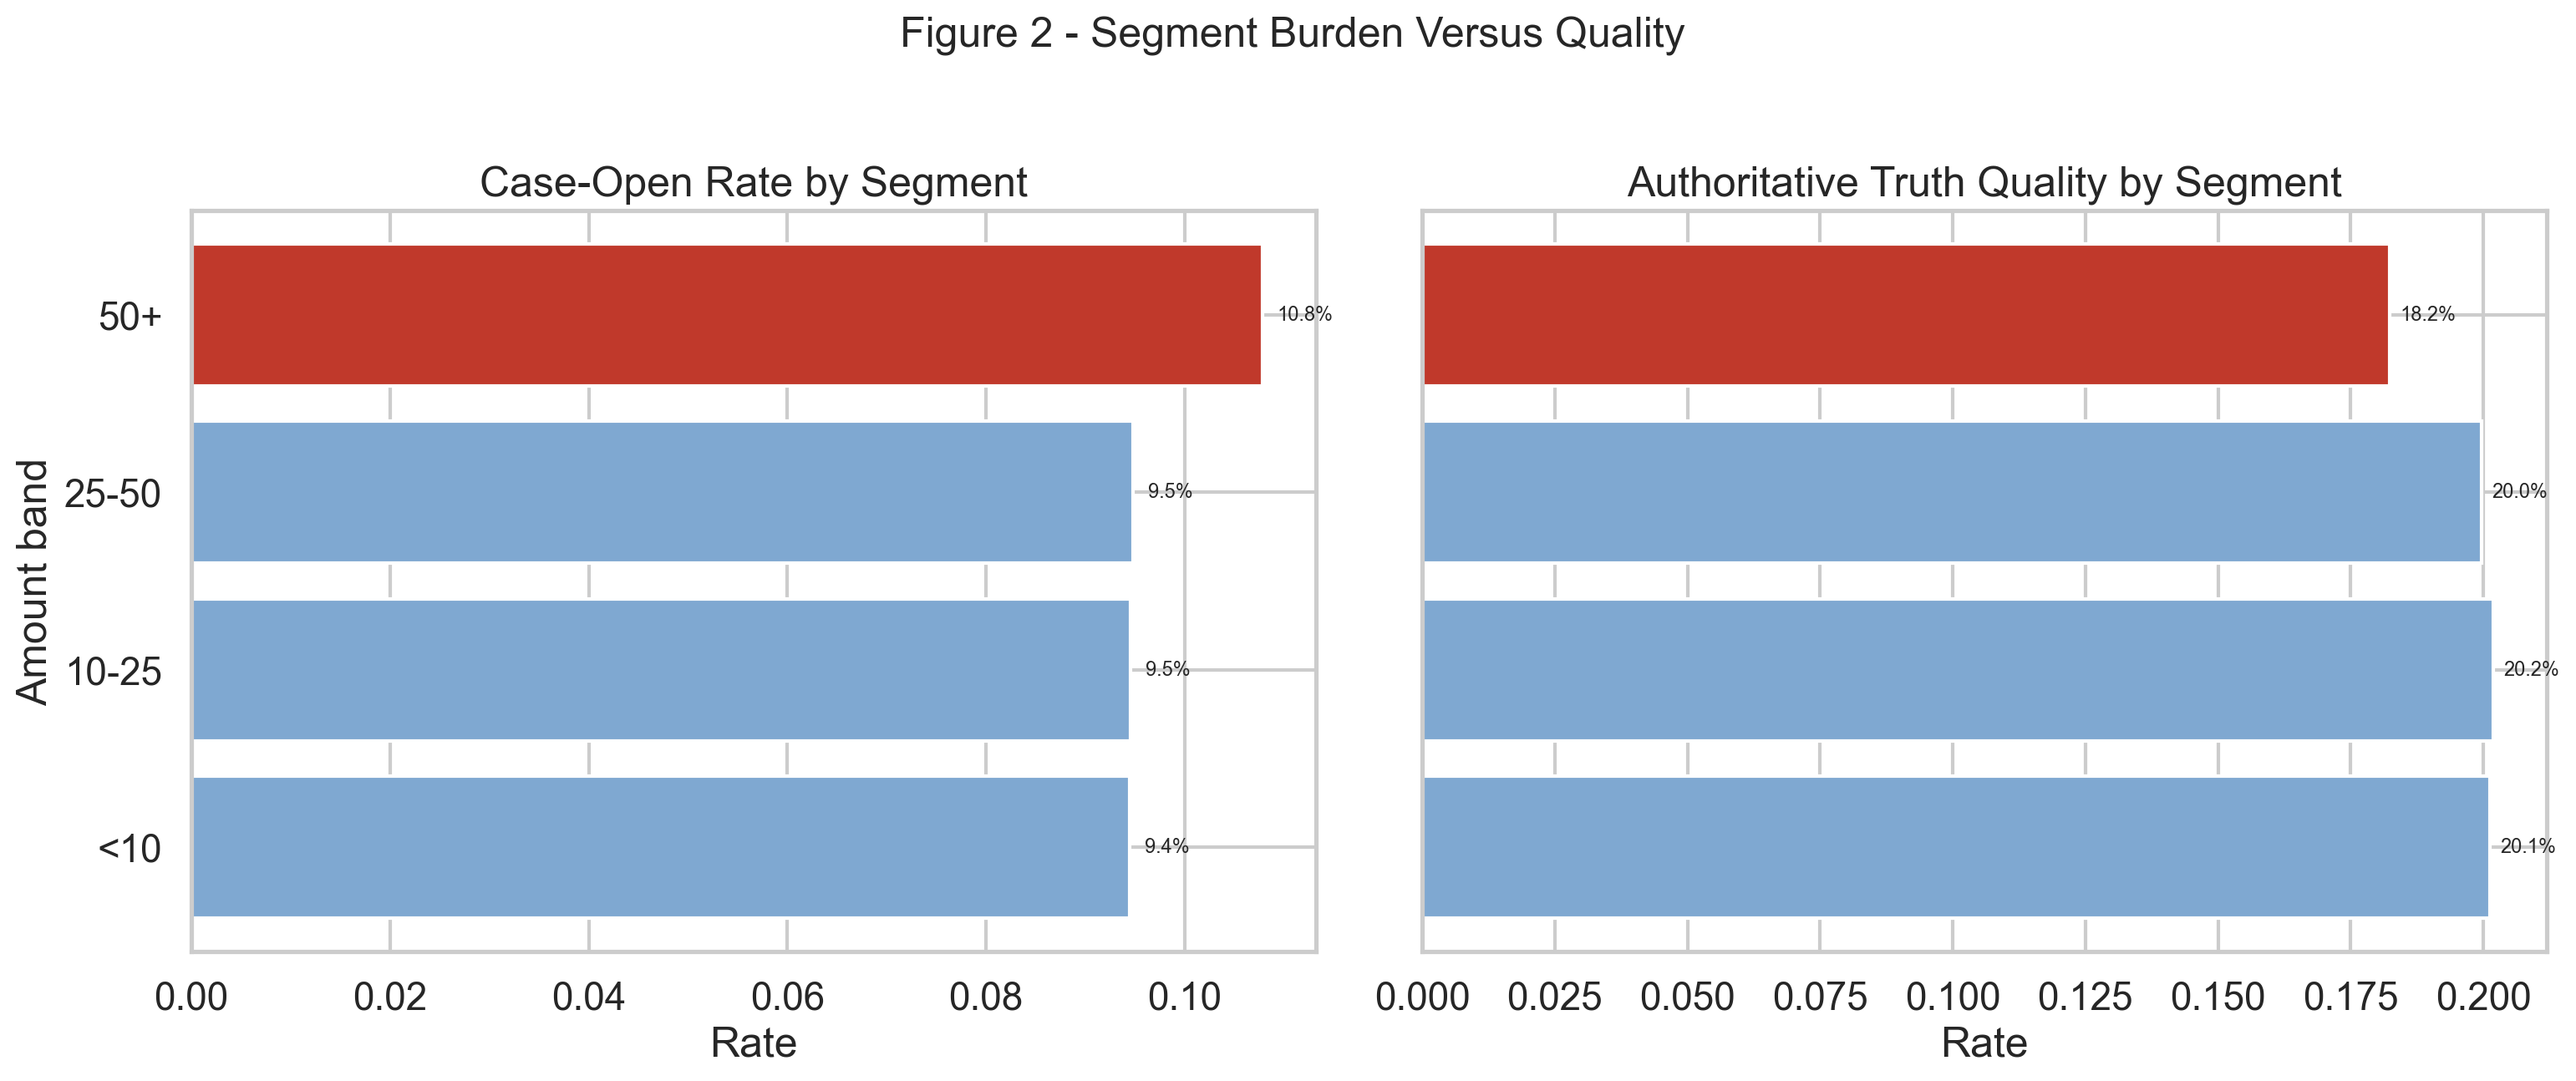
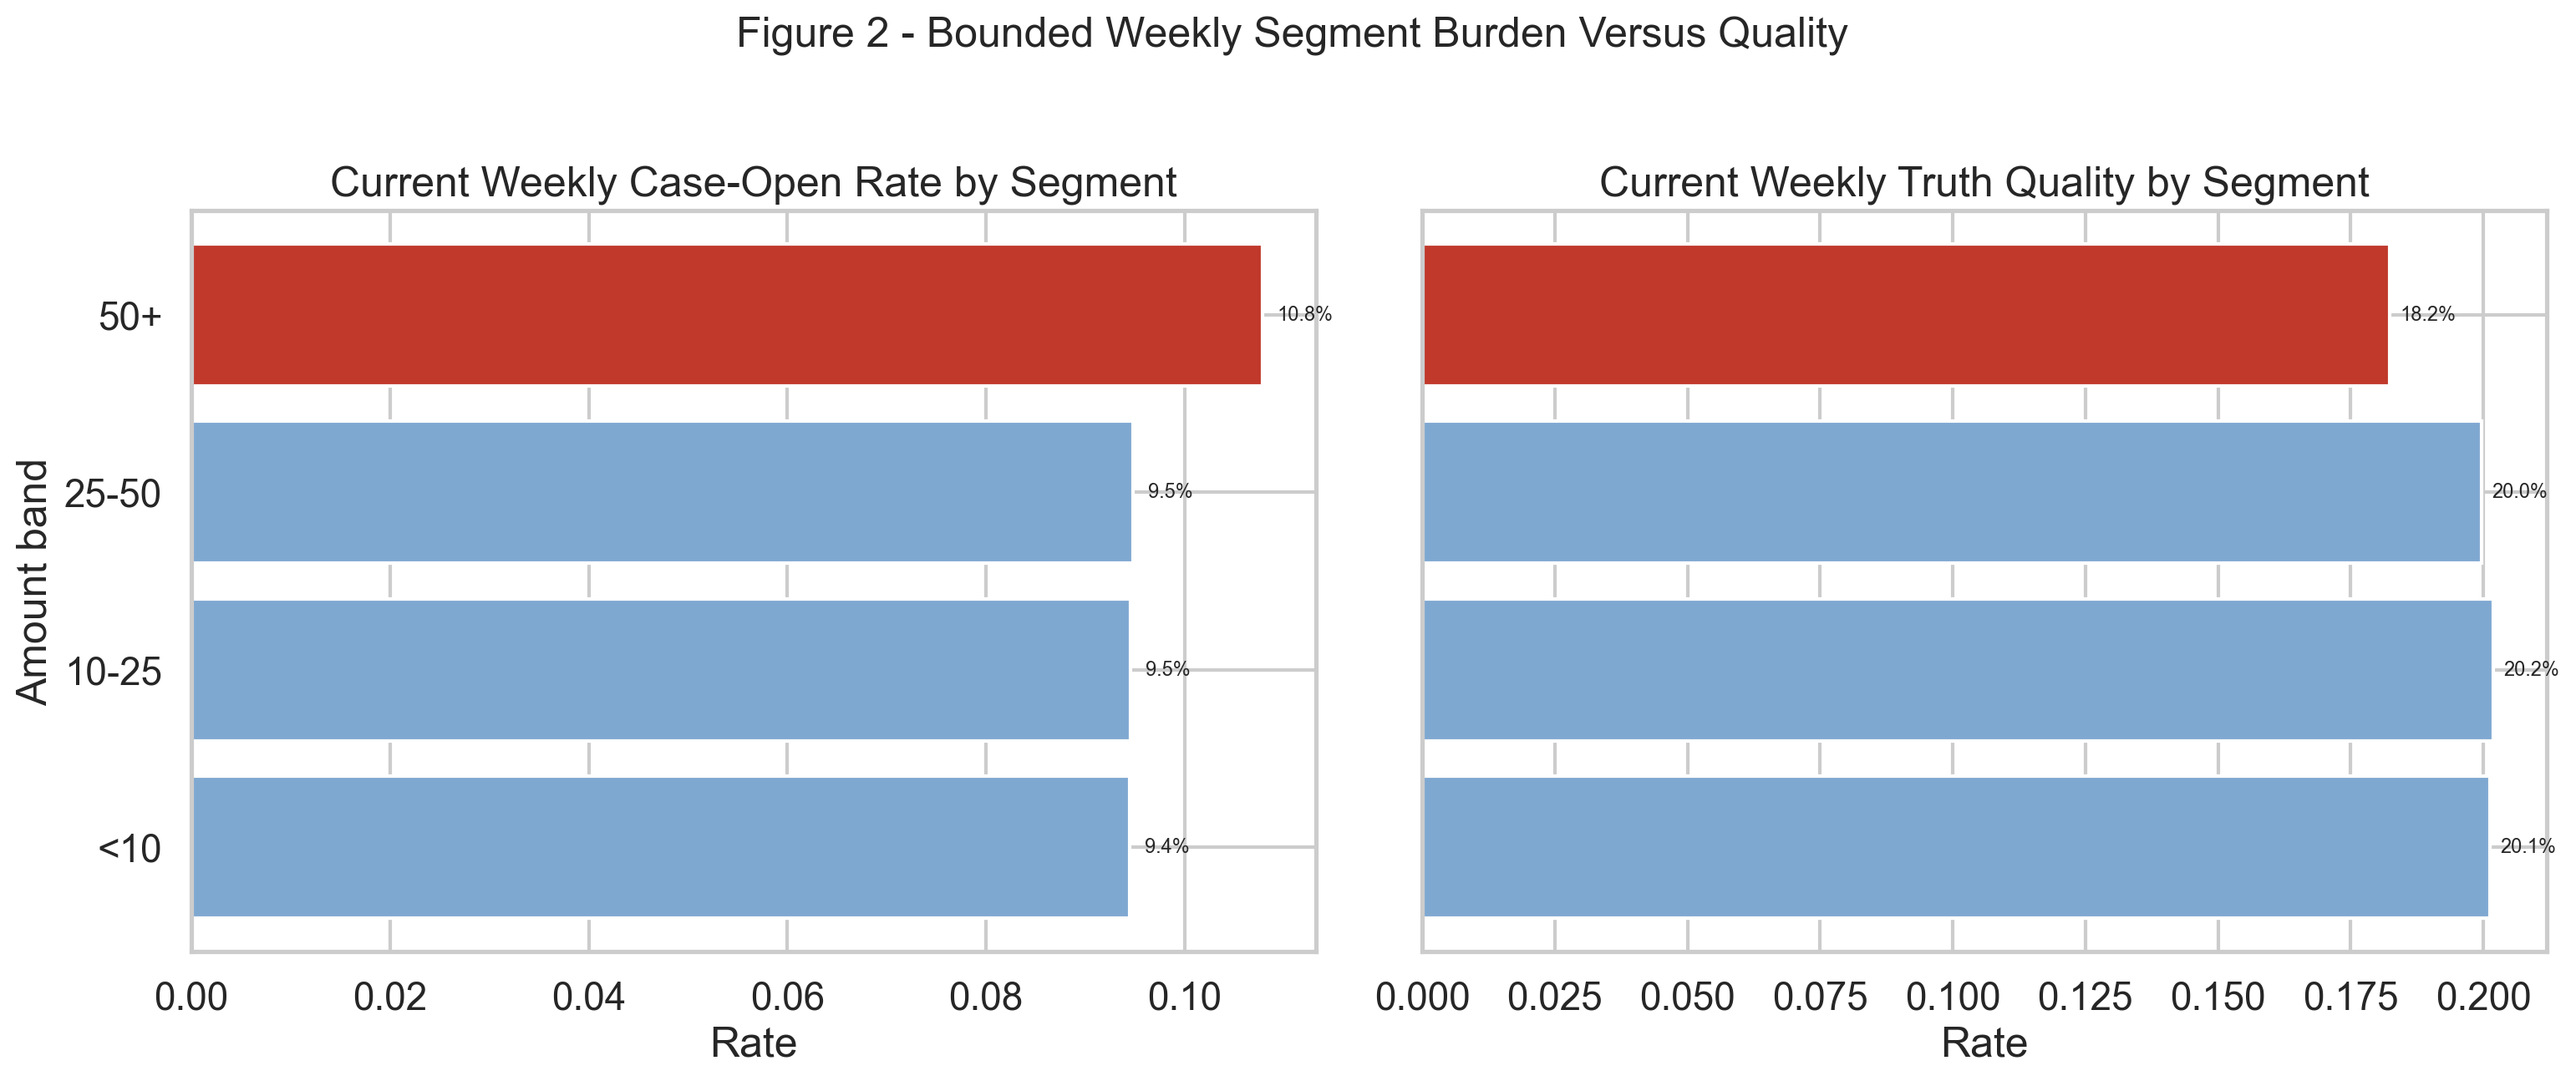
Enhance issue-to-action briefing artifacts with updated figures, refined execution report, and improved clarity in analysis and recommendations.

Changed region(s): [[0.2802, 0.0, 0.7162, 0.0618], [0.1246, 0.1546, 0.4671, 0.1855], [0.6228, 0.1546, 0.9342, 0.1855]]

diff --git a/artefacts/analytics_slices/data_analyst/huc/04_issue_to_action_briefing/models/build_issue_to_action_briefing.py b/artefacts/analytics_slices/data_analyst/huc/04_issue_to_action_briefing/models/build_issue_to_action_briefing.py
@@ -402,43 +402,31 @@ def main() -> None:
         )
 
     rate_df = plot_df.loc[plot_df["rate_metric"]].copy()
+    rate_df["delta_pp"] = (rate_df["current_value"] - rate_df["prior_value"]) * 100
     y_positions = list(range(len(rate_df)))
-    bar_height = 0.32
+    colors = ["#3d85c6" if value >= 0 else "#e69138" for value in rate_df["delta_pp"]]
     axes[1].barh(
-        [y - bar_height / 2 for y in y_positions],
-        rate_df["prior_value"],
-        height=bar_height,
-        color="#9fc5e8",
-        label="Prior",
-    )
-    axes[1].barh(
-        [y + bar_height / 2 for y in y_positions],
-        rate_df["current_value"],
-        height=bar_height,
-        color="#3d85c6",
-        label="Current",
+        y_positions,
+        rate_df["delta_pp"],
+        color=colors,
+        height=0.52,
     )
     axes[1].set_yticks(y_positions)
     axes[1].set_yticklabels(rate_df["metric"])
-    axes[1].set_xlim(0.08, 0.82)
-    axes[1].set_title("Core Rates Were Broadly Flat")
-    axes[1].set_xlabel("Rate")
+    max_delta = max(abs(rate_df["delta_pp"]).max(), 0.05)
+    axes[1].set_xlim(-max_delta * 1.8, max_delta * 1.8)
+    axes[1].axvline(0, color="#666666", linewidth=1.2)
+    axes[1].set_title("Rate Movement vs Prior Was Minimal")
+    axes[1].set_xlabel("Change from prior (percentage points)")
     axes[1].set_ylabel("")
-    axes[1].legend(title="", loc="lower right", fontsize=10)
     for pos, row in enumerate(rate_df.itertuples(index=False)):
         axes[1].text(
-            float(row.current_value) + 0.01,
-            pos + bar_height / 2,
-            short_pct(float(row.current_value)),
+            float(row.delta_pp) + (0.01 if row.delta_pp >= 0 else -0.01),
+            pos,
+            f"{row.delta_pp:+.2f} pp",
             fontsize=8.5,
             va="center",
-        )
-        axes[1].text(
-            float(row.prior_value) + 0.01,
-            pos - bar_height / 2,
-            short_pct(float(row.prior_value)),
-            fontsize=8.5,
-            va="center",
+            ha="left" if row.delta_pp >= 0 else "right",
         )
 
     fig.suptitle("Figure 1 - Topline Movement and Issue Context", fontsize=18, y=1.02)
@@ -493,7 +481,9 @@ def main() -> None:
             fontsize=8.5,
         )
 
-    fig.suptitle("Figure 2 - Segment Burden Versus Quality", fontsize=18, y=1.02)
+    axes[0].set_title("Current Weekly Case-Open Rate by Segment")
+    axes[1].set_title("Current Weekly Truth Quality by Segment")
+    fig.suptitle("Figure 2 - Bounded Weekly Segment Burden Versus Quality", fontsize=18, y=1.02)
     fig.tight_layout()
     fig.savefig(FIGURES_DIR / "segment_burden_versus_quality.png", dpi=200, bbox_inches="tight")
     plt.close(fig)

diff --git a/docs/experience_lake/outward-facing-assets/analytics-role-lenses/data_analyst/huc/04_issue_to_action_briefing/execution_report.md b/docs/experience_lake/outward-facing-assets/analytics-role-lenses/data_analyst/huc/04_issue_to_action_briefing/execution_report.md
@@ -1,0 +1,276 @@
+# Execution Report - Issue-To-Action Briefing Slice
+
+As of `2026-04-03`
+
+Purpose:
+- record what was actually executed for the HUC `Data Analyst` stakeholder-communication and decision-support slice
+- preserve the truth boundary between one bounded issue-to-action briefing and any wider claim about a broader HUC communication, dashboard, or board-pack programme
+- package the saved facts, briefing notes, action notes, and complementary evidence figures into one outward-facing report
+
+Truth boundary:
+- this execution was completed against compact governed outputs already produced in the earlier HUC slices
+- the slice did not reload the full merged service-line base into memory
+- the scope was limited to one bounded weekly service-line issue only
+- the selected issue was not broad deterioration; it was a concentrated burden-versus-quality issue in one segment
+- the slice therefore supports a truthful claim about translating one real operational issue into plain-language action for operations and leadership
+- it does not support a claim that a broad HUC communications estate, full dashboard suite, or strategic reporting programme has already been industrialised
+
+---
+
+## 1. Executive Answer
+
+The slice asked:
+
+`can one real service-line issue be explained clearly enough that leadership and operations understand what changed, why it matters, and what should happen next?`
+
+The bounded answer is:
+- the current week is broadly stable at top line rather than materially deteriorating
+- pressure increased only slightly from `18.32M` to `18.55M` flows
+- case-open conversion stayed broadly flat at `9.62%` versus `9.59%`
+- long-lifecycle burden stayed broadly flat at `79.61%` versus `79.64%`
+- authoritative truth quality stayed broadly flat at `19.86%` versus `19.89%`
+- the real issue is concentrated in the `50_plus` segment rather than spread across the whole lane
+- that segment still has the highest case-open rate at `10.78%`
+- it also has the weakest authoritative truth quality at `18.23%`
+- the selected recommendation is therefore:
+  - review `50_plus` queue case-opening or escalation rules before broad lane-wide intervention
+- the compact issue briefing regenerates from governed inputs in `2.52` seconds
+
+That means this slice delivered a real analysis-to-action briefing rather than only a neutral KPI summary or a decorative reporting pack.
+
+## 2. Slice Summary
+
+The slice executed was:
+
+`one what-changed and what-to-do-next service-line performance briefing for a single operational issue`
+
+This was chosen because it allowed a direct response to the HUC requirement:
+- communicate analytical findings in plain language
+- tailor that communication to different audiences
+- explain why the issue matters operationally
+- connect the issue to a real follow-up recommendation rather than passive observation
+
+The primary proof object was:
+- `issue_to_action_briefing_v1`
+
+The main delivered outputs were:
+- one decision-question note
+- one process map
+- one KPI-purpose note
+- one stakeholder-view matrix
+- one `what changed` note
+- one `why it matters` note
+- one KPI definition sheet
+- one compact two-figure briefing pack
+- one executive brief
+- one operational action note
+- one challenge-response note
+
+## 3. How This Maps To The Slice Plan
+
+The execution stayed aligned to the approved HUC `3E + 3F` slice rather than drifting into a broader dashboard, reporting-ownership, or generic storytelling exercise.
+
+The delivered scope maps back to the planned lens responsibilities as follows:
+- `05 - Business Analysis, Change, and Decision Support`: decision-question note, process map, KPI-purpose note, and stakeholder-view matrix
+- `01 - Operational Performance Analytics`: bounded KPI comparison, issue selection, `what changed` note, and `why it matters` note
+- `02 - BI, Insight, and Reporting Analytics`: one compact two-figure issue briefing pack and one KPI definition sheet
+- `08 - Stakeholder Translation, Communication, and Decision Influence`: executive brief, operational action note, and challenge-response note
+
+The report therefore needs to be read as proof that one bounded issue was interpreted and translated into action, not as proof that every HUC audience or strategic forum is already covered.
+
+## 4. Execution Posture
+
+The execution followed the agreed `05 -> 01 -> 02 -> 08` order.
+
+The working discipline was:
+- define the decision need first
+- choose the issue from the real bounded HUC evidence rather than from a preferred narrative
+- keep the KPI set small enough to support one decision question
+- use visual-first complementary figures rather than pseudo-dashboard pages
+- keep the recommendation explicit and tied to the evidence
+
+This matters for the truth of the slice because the requirement is not just to present charts. It is to make analytical work understandable and useful to non-technical decision-makers.
+
+## 5. Bounded Build That Was Actually Executed
+
+### 5.1 Decision question actually used
+
+The decision question used in execution was:
+
+`is the current service-line issue broad deterioration, or is one segment consuming disproportionate case effort without commensurate authoritative value, and where should attention go first?`
+
+The bounded answer was:
+- the top line is broadly stable
+- the issue is concentrated rather than systemic
+- the `50_plus` segment is the first place attention should go
+
+### 5.2 KPI movement actually established
+
+Observed top-line movement:
+
+| KPI | Prior | Current | Reading |
+| --- | ---: | ---: | --- |
+| Pressure flows | 18.32M | 18.55M | Slight increase |
+| Case-open rate | 9.62% | 9.59% | Broadly flat |
+| Long-lifecycle burden | 79.61% | 79.64% | Broadly flat |
+| Authoritative truth quality | 19.86% | 19.89% | Broadly flat |
+
+Reading:
+- the data does not support a broad service-line deterioration story
+- a generic “everything is getting worse” narrative would have overstated the evidence
+
+### 5.3 Issue concentration actually established
+
+Observed segment issue:
+
+| Segment | Case-Open Rate | Authoritative Truth Quality | Reading |
+| --- | ---: | ---: | --- |
+| `50_plus` | 10.78% | 18.23% | Highest burden, weakest quality |
+| `25_to_50` | 9.48% | 19.96% | Lower burden, better quality |
+| `10_to_25` | 9.46% | 20.19% | Lower burden, better quality |
+| `under_10` | 9.45% | 20.12% | Lower burden, better quality |
+
+Reading:
+- the `50_plus` segment still opens to case work more aggressively than the other bounded segments
+- it returns weaker authoritative truth quality than the other segments
+- this makes it the clearest recurring burden pocket in the bounded lane
+
+### 5.4 Recommendation actually produced
+
+The explicit recommendation produced by the slice was:
+- review `50_plus` queue case-opening or escalation rules before broad lane-wide intervention
+
+Why that recommendation is the truthful one:
+- the issue is concentrated
+- the top line is stable
+- a targeted queue review is better supported by the bounded evidence than a broad service response
+
+## 6. Evidence Figures Actually Delivered
+
+### 6.1 Figure 1 - Topline movement and issue context
+
+The first figure was designed to answer:
+- is the lane broadly stable or broadly deteriorating?
+- are the main current-versus-prior KPI movements large enough to support a general escalation story?
+
+Delivered components:
+- one pressure comparison panel
+- one rate-movement-from-prior panel
+
+The figure makes the main communication point immediately:
+- top-line pressure moved only slightly
+- the core operating-rate deltas are minimal
+- the reader should not leave with a false broad-deterioration story
+
+### 6.2 Figure 2 - Segment burden versus quality
+
+The second figure was designed to answer:
+- where does the issue actually sit?
+- which segment deserves attention first?
+- what is the burden-versus-quality trade-off in that segment?
+
+Delivered components:
+- one segment comparison for case-open rate
+- one segment comparison for authoritative truth quality
+
+This is what turns the slice into issue-to-action communication rather than only issue description:
+- the figure shows why the `50_plus` segment should be the first operational focus
+- it keeps that judgment explicitly bounded to the current weekly slice
+- it lets the recommendation come from the evidence rather than from extra prose
+
+## 7. Figures
+
+The figure pack is part of execution for this slice, not an afterthought.
+
+### 7.1 Topline movement and issue context
+
+![Topline movement and issue context](../../../../../../../artefacts/analytics_slices/data_analyst/huc/04_issue_to_action_briefing/figures/topline_movement_and_issue_context.png)
+
+This figure carries the framing story:
+- the lane is broadly stable at top line
+- the rate panel is shown as change from prior rather than mixed KPI magnitudes
+- the briefing should therefore avoid a false broad-deterioration narrative
+
+### 7.2 Segment burden versus quality
+
+![Segment burden versus quality](../../../../../../../artefacts/analytics_slices/data_analyst/huc/04_issue_to_action_briefing/figures/segment_burden_versus_quality.png)
+
+This figure carries the action story:
+- the `50_plus` segment has the highest case-opening burden
+- it also has the weakest authoritative truth quality
+- it is therefore the right first operational review target in this bounded weekly lane
+
+## 8. Communication Assets Produced
+
+The slice produced the communication material that makes the issue understandable and actionable.
+
+Decision and framing notes:
+- decision-question note
+- process map
+- KPI-purpose note
+- stakeholder-view matrix
+
+Interpretation notes:
+- `what changed` note
+- `why it matters` note
+- KPI definition sheet
+- page notes
+
+Audience-facing notes:
+- executive brief
+- operational action note
+- challenge-response note
+
+This is the key difference between this slice and a neutral KPI summary:
+- the issue is not only described
+- it is translated into audience-specific meaning and a concrete next step
+
+## 9. What This Slice Supports Claiming
+
+This slice supports truthful statements such as:
+- explained analytical findings in plain language for different stakeholder audiences
+- translated bounded KPI movement into operational meaning rather than leaving it as raw reporting
+- identified when a broad deterioration story was not supported by the evidence
+- turned a concentrated service-line issue into a targeted operational recommendation
+
+The slice does not support claiming that:
+- the full HUC service is already covered by a strategic communications programme
+- every operational issue already has a mature action-briefing workflow
+- the full leadership and commissioner reporting estate has already been implemented
+
+## 10. Candidate Resume Claim Surfaces
+
+This section should be read as a direct response to the HUC `3E + 3F` responsibility, not as a generic “wrote better summaries” statement.
+
+The requirement asks for someone who can:
+- communicate technical or analytical findings in plain language
+- tailor the explanation to different audiences
+- use analysis to support operational delivery and strategic decisions
+- make reporting useful for action rather than passive observation
+
+The strongest bounded claim surfaces from this slice are therefore:
+
+Flagship version:
+
+> Communicated analytical findings in plain language and used them to support operational and strategic decisions, as measured by delivery of `2` audience-shaped briefing views over a bounded weekly service-line issue, consistent reuse of `4` KPI families across the pack, and completion of one explicit follow-up recommendation to review `50_plus` queue case-opening or escalation rules, by interpreting stable topline performance against a recurring segment-level burden-versus-quality gap, packaging the issue into concise leadership and operational briefing materials, and explaining what changed, why it mattered, and what should happen next.
+
+Shorter recruiter-readable version:
+
+> Turned bounded service-line analysis into leadership and operational action, as measured by stakeholder-ready issue briefing outputs and a clear follow-up recommendation, by translating KPI movement and segment-level burden into plain-language summaries and decision-support notes.
+
+Closest direct response version:
+
+> Communicated analytical findings in plain language and used them to support operational and strategic decisions, as measured by stakeholder-ready briefing outputs, stable KPI definitions, and a clear action-oriented recommendation, by interpreting a bounded service-line issue, packaging it into audience-appropriate reporting, and explaining what changed, why it mattered, and what should happen next.
+
+## 11. Bottom Line
+
+This slice is complete as a bounded HUC `3E + 3F` proof.
+
+It demonstrates:
+- stakeholder communication
+- plain-language analytical explanation
+- audience-aware briefing
+- action-oriented interpretation
+- decision-support translation
+
+It does so without overstating the scope beyond one bounded issue in one weekly service-line lane.

diff --git a/artefacts/analytics_slices/data_analyst/huc/04_issue_to_action_briefing/issue_page_notes_v1.md b/artefacts/analytics_slices/data_analyst/huc/04_issue_to_action_briefing/issue_page_notes_v1.md
@@ -2,8 +2,9 @@
 
 Figure 1 - Topline movement and issue context:
 - shows that current-versus-prior movement is broadly stable at the lane level
+- uses change-from-prior bars for the rate panel so unlike KPI families are not read as directly comparable levels
 - prevents the reader from overreacting to a false broad-deterioration story
 
 Figure 2 - Segment burden versus quality:
-- shows where the issue actually sits
+- shows where the issue actually sits in the bounded current weekly lane
 - lets the reader see that the `50+` segment has the highest conversion into case work and the weakest authoritative quality
